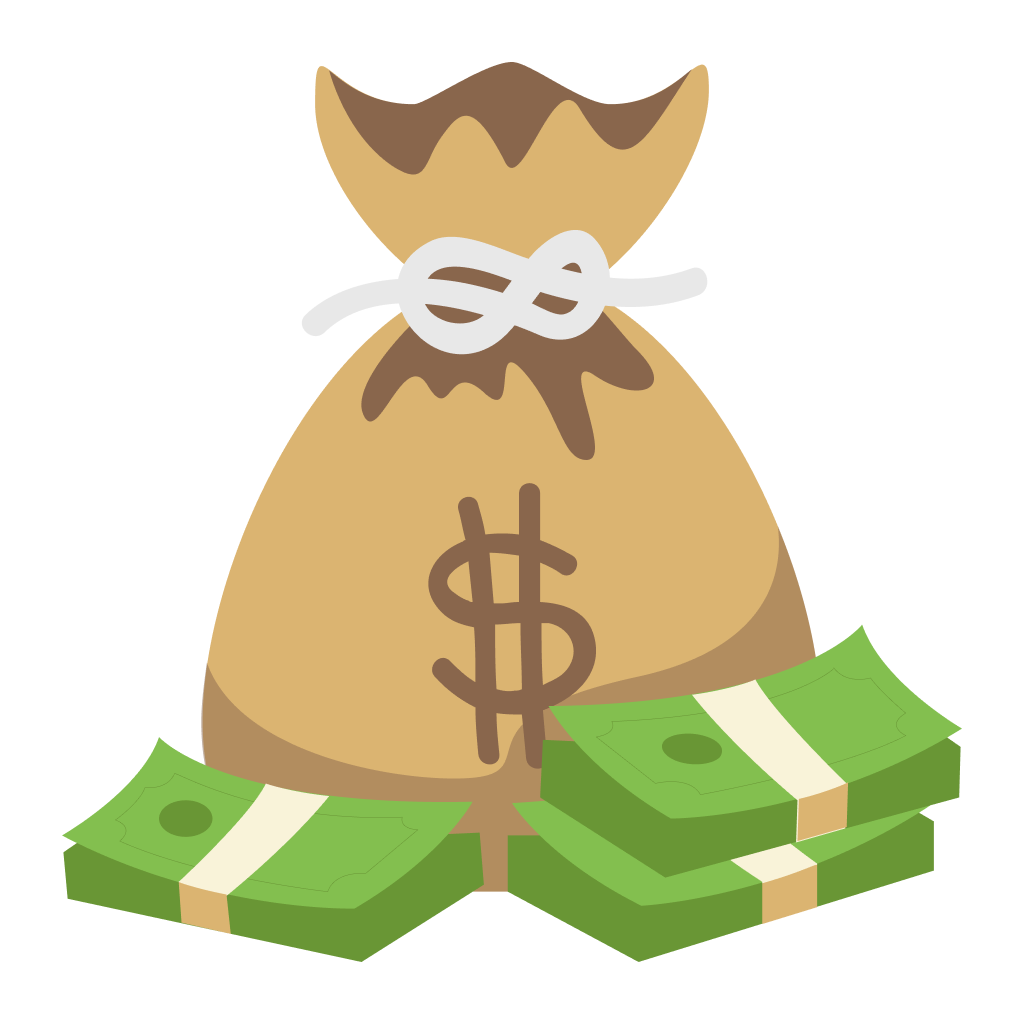
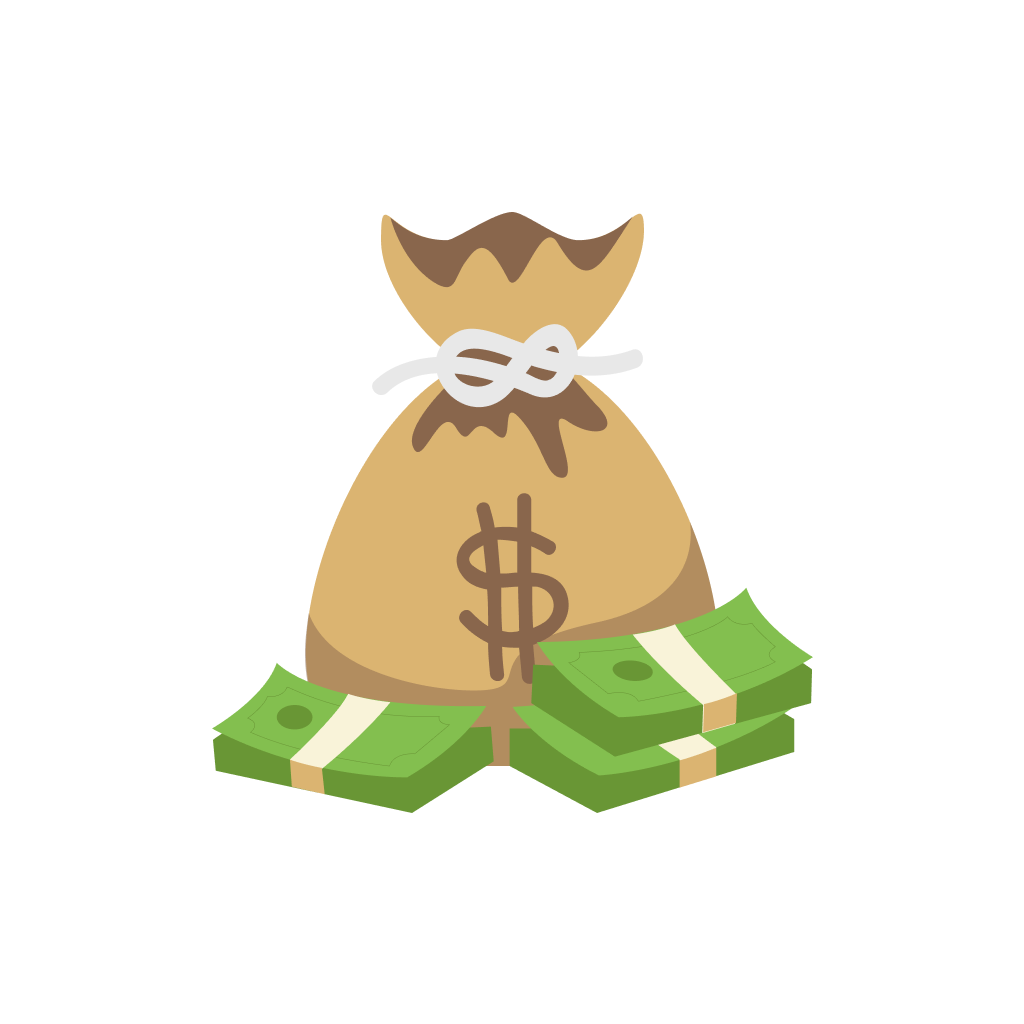
feat (employee) : complete update employee process

diff --git a/app/company_content/update_employee.tsx b/app/company_content/update_employee.tsx
@@ -16,7 +16,7 @@ import fonts from '../../constants/fonts';
 import APP_IMAGES from '../../constants/images';
 import CommonStyle from '../../styles/common';
 import { useAppThemeColor } from '@/hooks/useThemeColor';
-import { router, useLocalSearchParams } from 'expo-router';
+import { router,  useLocalSearchParams } from 'expo-router';
 import * as ImagePicker from "expo-image-picker";
 import { getDownloadURL, ref, uploadBytesResumable } from 'firebase/storage';
 import { storage } from '@/firebaseConfig';
@@ -59,8 +59,19 @@ const validateSalary = (value:string) => {
 
 const Company_UpdateEmployeeScreen = () => {
 
-    const {employee} = useLocalSearchParams()
-    const employeeToUpdate : EmployeeUpdatable = JSON.parse(employee as string) 
+    const {data} = useLocalSearchParams()
+    const [employeeToUpdate, setEmployeeToUpdate] = useState<EmployeeUpdatable>(JSON.parse(data as string))
+   
+   
+
+
+    useEffect(()=>{
+      if (data) {
+        setEmployeeToUpdate(JSON.parse(data as string))
+      }
+      
+    },[data])
+  
     const colors = useAppThemeColor()
     const style = CommonStyle(colors);
 
@@ -79,6 +90,7 @@ const Company_UpdateEmployeeScreen = () => {
 
   const [isOperationInProgress, setIsOperationInProgress] = useState<boolean>(false);
   const [progress, setProgress] = useState<number>(0);
+ 
   const [statusMessage, setStatusMessage] = useState<string>('initialisation...');
 
     const showAlert = (message: string, title:string = "Erreur de validation") => {
@@ -115,9 +127,6 @@ const Company_UpdateEmployeeScreen = () => {
           aspect: [4, 3],
           quality: 1,
         });
-    
-        console.log(result);
-    
         if (!result.canceled) {
             setValue('photoURL', result?.assets[0]?.uri!); // Met à jour la valeur du champ 'image'
               clearErrors('photoURL');
@@ -141,7 +150,7 @@ uploadTask.on(
     (snapshot) => {
       // Calculer la progression en pourcentage
       const uprogress = (snapshot.bytesTransferred / snapshot.totalBytes) * 100;
-      setStatusMessage(`Upload du logo ${uprogress.toFixed(2)}% terminée`)
+      setStatusMessage(`${uprogress.toFixed(2)}% terminée`)
       setProgress(uprogress / 2)
     },
     (error) => {
@@ -158,6 +167,7 @@ uploadTask.on(
         setStatusMessage('Upload de la photo terminée');
         getDownloadURL(uploadTask.snapshot.ref).then((url)=>{
             setValue('photoURL', url)
+
             const data: UploadEmployeeImageToFirebaseCompleted = { photoCloudPath, photoURL: url }
           return data;
         });
@@ -267,12 +277,14 @@ uploadTask.on(
   
   
   const onUpdateEmployee = async (data: EmployeeUpdatable) => {
+    
     let photoData: UploadEmployeeImageToFirebaseCompleted = {
       photoCloudPath: employeeToUpdate?.photoCloudPath!,
       photoURL: data.photoURL
     }
     if (data.photoURL !== 'none' && !data.photoURL.includes('https://') ) {
-      photoData = await uploadToFirebase(data.name, data.photoURL);
+      await uploadToFirebase(data.name, data.photoURL);
+
     }
    
     const formatedData: Partial<EmployeeUpdatable> = {
@@ -298,10 +310,11 @@ uploadTask.on(
     
         Alert.alert(employeeUpdated, "Employée modifier avec succès", [
           {
-            text: "Ok", onPress: () => {
+            text: "OK", onPress: () => {
               reset()
               dispatch(companyActions.resetUpdatingEmployee())
-              router.back()
+              dispatch(companyActions.getEmployeesrequest({companyId:company._id}))
+              router.push("/company_content/gestion_employee")
           }}
         ]);
        
@@ -329,7 +342,8 @@ uploadTask.on(
                 text: "Oui", onPress: () => {
                   reset()
                   dispatch(companyActions.resetUpdatingEmployee())
-                  router.back()
+                  dispatch(companyActions.getEmployeesrequest({companyId:company._id}))
+                  router.push('/company_content/gestion_employee')
               }}
             ]);
             return true;
@@ -337,14 +351,14 @@ uploadTask.on(
           if (isDirty) {
             backAction()
           } else {
-            router.back()
+            router.push('/company_content/gestion_employee')
           }
           
         }}>
                  <APP_IMAGES.ARROW_BACK_ICON width={32} height={32}  fill={colors.primary}/>
           </TouchableOpacity>
    
-          <Text style={{...fonts.header, fontSize:30, color:colors.primary, flex:1, textAlign:'center'} as any}>Modifier un employé</Text>
+          <Text style={{...fonts.header, fontSize:24, color:colors.primary, flex:1, textAlign:'center'} as any}>Modifier un employé</Text>
         <APP_IMAGES.LOGO width={48} height={44}/>  
         </View>
         <ScrollView style={{width:'100%', flex:1, marginBottom:40, padding:10}} showsVerticalScrollIndicator={false} contentContainerStyle={{width:"100%"}}>

diff --git a/app/employee_content/index.tsx b/app/employee_content/index.tsx
@@ -51,6 +51,7 @@ const Employee_HomeScreen= () => {
   const employee = useSelector(state => state.employee.employeeInfos as IFullEmployee) || ML_API.currentUser;
   const canDoLoan = useSelector(state => state.loan.employeeCanDoLoan);
   const loansParams = useSelector(state => state.employee.employeeInfos?.companyId.loanParameters)
+
   const loanLoading = useSelector(state => state.loan.loading);
   const loanCreatedSuccess = useSelector(state => state.loan.loanCreatedSuccess);
   const errorCreatedLoan = useSelector(state => state.loan.error);

diff --git a/app/_layout.tsx b/app/_layout.tsx
@@ -37,7 +37,7 @@ export default function RootLayout() {
       <PersistGate persistor={persistor}>
   <ThemeProvider value={colorScheme === 'dark' ? DarkTheme : DefaultTheme}>
     <SafeAreaView style={{ flex: 1 }}>
-       <Stack>
+       <Stack initialRouteName='index'>
         <Stack.Screen options={{headerShown:false}} name="index"/>
         <Stack.Screen options={{headerShown:false}}  name="choose_entity"/>
         <Stack.Screen options={{headerShown:false}}   name='company_auth'/>

diff --git a/app/company_content/_layout.tsx b/app/company_content/_layout.tsx
@@ -34,7 +34,7 @@ export default function CompanyRoute() {
         drawerItemStyle:{display:"none"},
        headerShown:false,
         }} />
-      <Drawer.Screen name="update_employee" options={{drawerItemStyle:{display:"none"}}} />
+      <Drawer.Screen name="update_employee" options={{drawerItemStyle:{display:"none"}, headerShown:false}} />
       <Drawer.Screen
        options={{
          title:"Gestion des employés",

diff --git a/app/company_content/gestion_employee.tsx b/app/company_content/gestion_employee.tsx
@@ -112,7 +112,10 @@ const Company_GestionEmployeeScreen = () => {
     {
       text: 'Modifier',
       onClick: (data: IEmployee) => {
-      Alert.alert("Go to ", "Update employee with params")
+        router.push({
+          pathname: '/company_content/update_employee',
+          params: { data:JSON.stringify(data) },
+        });
       },
       available:true,
       
